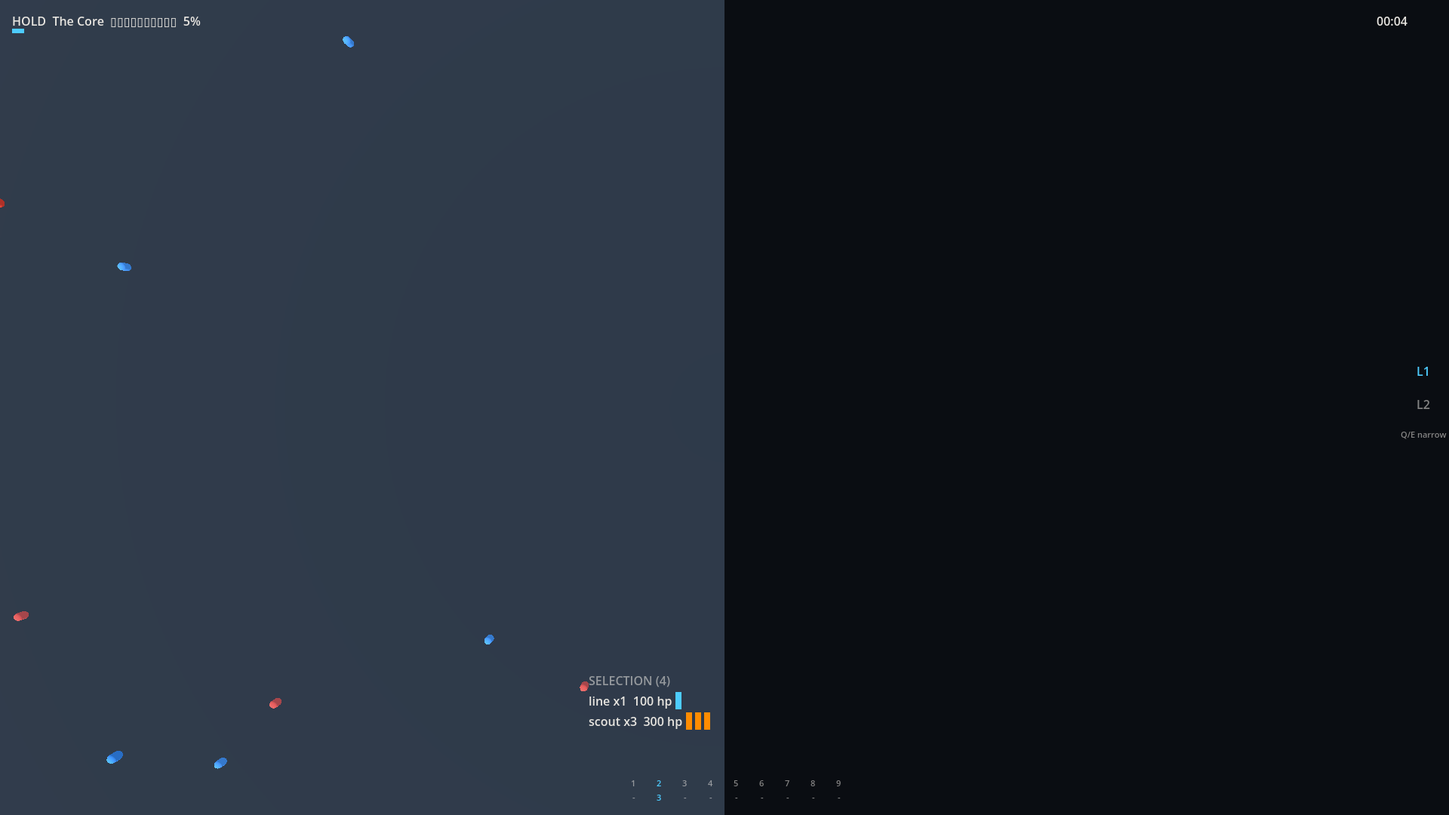
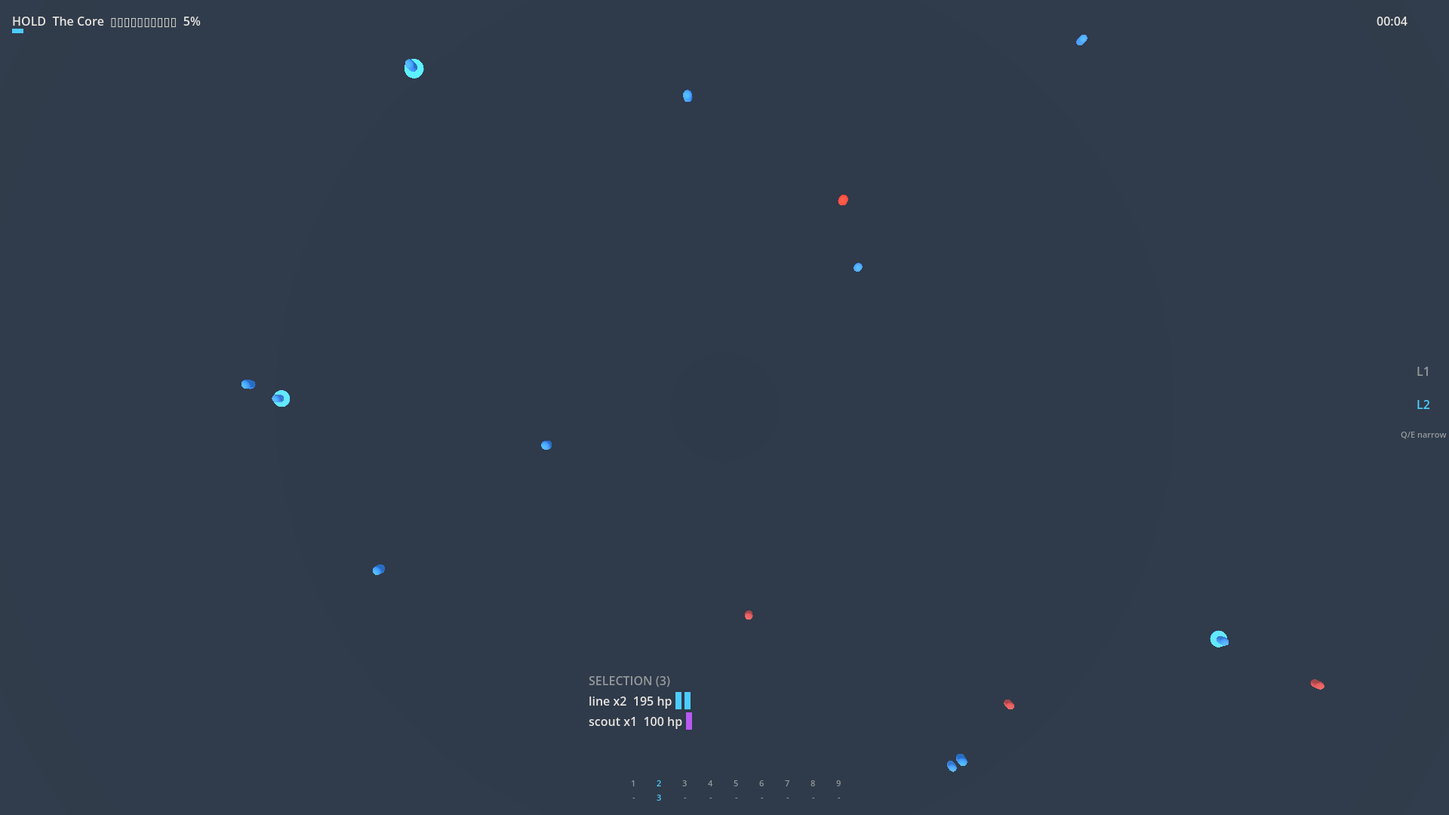
docs(mockup/hud): full rerun, refresh checklist/README, replace pass1
full pass after all 5 fixes: verify OK, 6/6 plants LIVE isolated,
2x clean smoke 1280x720 (9/9 hashes equal, 9/9 screenshot diffs
0.000000), 1 smoke run per plant, box.json at 1920x1080, 1920x1080
review batch (now 9 shots incl after_tab). rewrote checklist.md
with fresh numbers (BOUND-8 per-height, EDGE-X/BOX-X updated,
Q1-Q6 re-answered incl new after_tab.png evidence for Q3, Q5
rewritten around the fixed camera bound). rewrote README design-
as-built, questions list (new EDGE-X number, new open flag on
BOUND-8 h=12000 geometric limit), added fix-pass section, next
step. pass1/ replaced (boot/boxed unchanged pixel-for-pixel by
diff, rest regenerated; after_tab.png new).

diff --git a/scenes/mockups/hud/qa/checklist.md b/scenes/mockups/hud/qa/checklist.md
@@ -1,24 +1,26 @@
 # HUD mockup QA checklist
 
-Real measured numbers from `scripts/mockup_qa.sh` and `scripts/mockup_verify.sh` runs on 2026-09-22, Godot 4.6.3, llvmpipe, 1280x720 unless noted. Two harness defects were found and fixed on `main` during this pass (not by this brief's implementor): an Xvfb screensaver blanking after 600s (`a98c47f`), and the real cause — `qa_boot.gd` left the project's autoloads running, so `SimBridge`'s dead child sim routed `SceneRouter` to the error screen and froze the driver (`b65afa8`). Both merged into this branch before the runs below. Two real bugs were found and fixed *in this mockup* during the pass; both are documented under their oracle below.
+Real measured numbers from `scripts/mockup_qa.sh` and `scripts/mockup_verify.sh` runs on 2026-09-22, Godot 4.6.3, llvmpipe, 1280x720 unless noted. This is the fresh-eyes fix pass: camera clamp now bounds the visible ground extent (not the camera centre), `qa/box.json` reconciled with the committed screenshot, Q3 promoted, an `after_tab` shot added, and the layer-2 accent moved off the enemy's red. A third real bug was found and fixed in this pass (beyond the two below): `qa_camera()` called `centre_on()` before `set_height()`, so once the clamp became height-dependent, a height change could get silently swallowed by a stale clamp from the previous height — see the BOUND-8 note below. Two harness defects were found and fixed on `main` before this branch started (not by this brief's implementor): an Xvfb screensaver blanking after 600s (`a98c47f`), and `qa_boot.gd` leaving autoloads running so `SimBridge`'s dead child sim froze the driver (`b65afa8`). Two real bugs were found and fixed *in this mockup* in the original pass (DRAG-X below, and a `%`-format crash in `verify.gd` that could mask a failure — both documented under their oracle).
 
 ## Verify checks (`verify.gd`)
 
 | id | check | clean result | plant | planted result |
 |---|---|---|---|---|
 | DET-1 | 300 ticks twice give equal hashes; seed 12 differs | hash_a=719549438 == hash_b=719549438; hash_c=2639692586 differs | none | n/a (self-test, no plant) |
-| BOX-2 | box over both layers selects all friendlies | 3 uids selected (both layers, enemy excluded) | `box-one-layer` | 1 uid selected ("box selected [1], want 3 uids across both layers") |
+| BOX-2 | box over both layers selects all friendlies | selected=[1,2,3], 3 uids (both layers, enemy excluded) | `box-one-layer` | 1 uid selected ("box selected [1], want 3 uids across both layers") |
 | NARROW-3 | narrow(2) keeps layer-2 only, `focus_layer` unchanged | selected=[2,3], focus_layer=1 (unchanged) | `narrow-moves-focus` | selected=[2,3], focus_layer=2 (moved) |
 | GROUP-4 | bind exclusivity; recall(2) selects exactly group 2 | groups={1:[],2:[1,2]}, selected=[1,2] (uid1 stripped from group1) | `group-shared` | groups={1:[1],2:[1,2]}, selected=[1,2] (uid1 kept in both) |
 | CENTRE-5 | recall twice within 0.4s reports centre_requested; once (or >0.4s later) does not | r1(Δ=1000ms from cold)=false, r2(Δ=300ms)=true, r3(Δ=700ms)=false | none | n/a |
 | NOALL-6 | no select-all-like command anywhere (commands() + input_router.mapped_commands()) | `[]` (no match) | `select-all-exists` | `["select_all", "select_all"]` (both sources) |
-| SHIFT-7 | shift-click adds an unselected unit, removes a selected one | added=true, removed=true | none | n/a |
-| BOUND-8 | camera clamp at every height; pitch 90°; focus_layer doesn't move camera | qa_camera(3000, 999999, -999999) → cam={x:3000,z:3000} clamped inside bounds{0,6000,0,6000}; pitch_ok=true; cam unchanged by qa_set(focus_layer,2) | `camera-unbounded` | cam={x:999999,z:-999999} (outside bounds); pitch still 90° (unaffected) |
-| CLOCK-9 | after qa_tick(1200), clock_s==60 regardless of wall time | c1=60.000, c2=60.000 (0.5s apart, equal) | `clock-wallclock` | c1=1.125, c2=1.626 (wall-clock seconds since process start, not 60, and not equal to each other) |
-| PANEL-10 | after qa_select of 3 units of 2 types: 2 rows, right counts/HP; every Control `focus_mode==NONE`; overlay `mouse_filter==IGNORE` | rows=[{type:"line",count:2,hp:200.0},{type:"scout",count:1,hp:100.0}]; all Controls FOCUS_NONE; overlay MOUSE_FILTER_IGNORE | none | n/a |
+| SHIFT-7 | shift-click adds an unselected unit, removes a selected one | added=true, removed=true, selected=[2] | none | n/a |
+| BOUND-8 | camera clamp keeps the visible ground rect inside the canvas at heights 150/3000/12000; pitch 90°; focus_layer doesn't move camera | h=150 cam=(5861.2,78.1) extent=(138.8,78.1) fits, corners inside canvas; h=3000 cam=(3223.6,1561.7) extent=(2776.4,1561.7) fits, corners inside; h=12000 extent=(11105.4,6246.8) does not fit inside a 6000-wide canvas (geometrically impossible at this fov/aspect), camera centres itself at (3000,3000) instead of lurching toward one edge; pitch_ok=true; cam unchanged by qa_set(focus_layer,2) | `camera-unbounded` | cam stuck at (999999,-999999) at every height, outside canvas at all three; pitch still 90° (unaffected) |
+| CLOCK-9 | after qa_tick(1200), clock_s==60 regardless of wall time | c1=60.000, c2=60.000 (0.5s apart, equal) | `clock-wallclock` | c1=1.110, c2=1.610 (wall-clock seconds since process start, not 60, and not equal to each other) |
+| PANEL-10 | after qa_select of 3 units of 2 types: 2 rows, right counts/HP; every Control `focus_mode==NONE`; overlay `mouse_filter==IGNORE` | rows=[{type:"line",count:2,hp:200.0},{type:"scout",count:1,hp:100.0}]; controls=22, all FOCUS_NONE; overlay MOUSE_FILTER_IGNORE | none | n/a |
 | JSON-11 | qa_state() round-trips through JSON with every contract key; qa_plant("nope") false; every PLANTS id true | text_ok=true, keys_ok=true, plants_ok=true | none | n/a |
 
 `scripts/mockup_verify.sh hud` → `VERIFY OK`, exit 0. `scripts/mockup_verify.sh hud --plant <id>` → `PLANT <id> LIVE` for all 6 ids, confirmed individually (each plant run shows exactly its own named check FAIL and nothing else — see full plant sweep below).
+
+**The BOUND-8/qa_camera bug, found by this check.** Once the clamp became height-dependent (this pass's fix), `qa_camera(height, x, z)` called `_camera_rig.centre_on(x,z)` (clamps against whatever height was still current) *then* `_camera_rig.set_height(height)` (re-clamps the already-clamped position against the new height). Going from a wide clamp range to a narrower one this still works; going the other way, the stale value from the old, tighter clamp already sits inside the new, looser range, so the second clamp is a no-op and the camera silently stays at the wrong spot. Caught by temporarily making `_assert` print every message (not `FAIL`-gated) via a one-line local edit, running `mockup_verify.sh hud`, and hand-checking the h=150 result against the clamp math by hand — it printed `cam=(3223.6,1561.7)`, the h=3000 answer, not h=150's `(5861.2,78.1)`. Reverted the debug print before committing; fixed `qa_camera()` to set height before centring.
 
 ## Full plant sweep (each run in isolation, only the smoke script's other 10 checks as control)
 
@@ -27,45 +29,49 @@ Real measured numbers from `scripts/mockup_qa.sh` and `scripts/mockup_verify.sh`
 | `box-one-layer` | `BOX-2: box selected [1], want 3 uids across both layers` | LIVE, isolated to BOX-2 |
 | `group-shared` | `GROUP-4: groups={ 1: [1], 2: [1, 2] } selected=[1, 2]` | LIVE, isolated to GROUP-4 |
 | `select-all-exists` | `NOALL-6: found select-all-like command(s) ["select_all", "select_all"]` | LIVE, isolated to NOALL-6 |
-| `camera-unbounded` | `BOUND-8: cam={...999999...} bounds={0,6000,0,6000} pitch_ok=true cam2={...999999...}` | LIVE, isolated to BOUND-8 |
-| `clock-wallclock` | `CLOCK-9: c1=1.125 c2=1.626` | LIVE, isolated to CLOCK-9 |
+| `camera-unbounded` | `BOUND-8: h=150 ... cam=(999999.0,-999999.0) ... ok=false h=3000 ... ok=false h=12000 ... ok=false pitch_ok=true cam2={...999999...}` | LIVE, isolated to BOUND-8 |
+| `clock-wallclock` | `CLOCK-9: c1=1.110 c2=1.610` | LIVE, isolated to CLOCK-9 |
 | `narrow-moves-focus` | `NARROW-3: selected=[2, 3] focus_layer=2` | LIVE, isolated to NARROW-3 |
 
 ## Xvfb oracles
 
 | id | oracle | threshold (candidate; Westley owns) | measured clean | measured planted | plant |
 |---|---|---|---|---|---|
-| ERR-0 | `errors.txt` count, `exit.txt`, no `UNIFORM` | count 0; exit 0; no UNIFORM | count=0, exit=0, no UNIFORM, across every run (2 clean smoke, 6 plant smoke, 2 box, 1 review batch = 11 runs) | same | none |
+| ERR-0 | `errors.txt` count, `exit.txt`, no `UNIFORM` | count 0; exit 0; no UNIFORM | count=0, exit=0, no UNIFORM across every run this pass (2 clean smoke @1280x720, 6 plant smoke @1280x720, 2 box.json @1920x1080, 1 review batch @1920x1080 = 11 runs) | same | none |
 | GPU-0 | `_qa.adapter` contains `llvmpipe`, `_qa.method == "gl_compatibility"` | exact | `llvmpipe (LLVM 21.1.8, 256 bits)`, `gl_compatibility`, display `X11` | — | none |
-| DET-1 (pixel) | two clean runs: every `state` hash equal; every screenshot `diff` | hash equal; diff < 0.005 | 9/9 state hashes equal across clean1/clean2; `diff` 0.000000 on boot/selected_mixed/recall_2/east_a (fuzz 5, default) | — | none |
+| DET-1 (pixel) | two clean runs: every `state` hash equal; every screenshot `diff` | hash equal; diff < 0.005 | 9/9 state hashes equal across clean1/clean2 (incl. the new `after_tab`); `diff` 0.000000 on all 9 screenshots (boot, after_tab, selected_mixed, narrowed, recall_none, recall_2, east_a, east_b, clock) | — | none |
 | BOX-X | `qa/box.json` drag (box x:[280,1020] y:[-20,620]) selects the expected uids | exact match; under `box-one-layer` only one layer's | clean (1920x1080): `[1,2,4,6,8]` (1 layer-1 + 4 layer-2, both layers present) | `[1]` (the box's only layer-1 uid, focus_layer=1) | `box-one-layer` |
 | TAB-X | `diff recall_none.png recall_2.png` over the tabs crop; under `group-shared` the group-2 count differs from clean | (revised) see note below — this smoke script's single `qa_bind(2)` call has no prior group to leak from, so it cannot discriminate `group-shared` on its own; GROUP-4 (headless) is the live oracle for this fault, confirmed above | groups={'2':[1,2,3]} identical between clean and `group-shared` runs at this exact script point | identical to clean (see note) | `group-shared` |
-| EDGE-X | two shots 60 frames apart at the east bound, `key_down D` held | (revised) see note below | east_a vs east_b within the same clean run: diff 0.001749 (units keep wandering + clock ticks even though camera is static — not zero, but small); camera.x=6000.0 exactly (clamped) in both `at_bound.json` states | east_a(clean) vs east_a(camera-unbounded) at the identical script point: diff **0.499449** — camera really did fly off; clean shows the sharp canvas-edge boundary, planted shows solid void (see pass1/at_bound.png and the report's Q5) | `camera-unbounded` |
-| DRAG-X | box overlay differs from boot.png while dragging; gone after release | overlay must not persist after release | **found and fixed a real bug**: `boxed.png` (state after a *completed* drag) still showed the selection rectangle — `BoxOverlay._process()` only called `queue_redraw()` while `box_active` was true, so the last mid-drag `_draw()` call's rect never got told to redraw as empty once the drag ended. Fixed with an edge-triggered final redraw in `hud.gd`. Re-verified: `boxed.png` now shows only the 5 selected units' rings, no stray rectangle (`docs/northstar/research/mockups/hud/pass1/boxed.png`) | n/a (not plant-gated; this was a genuine implementation bug, not a fault-site question) | none |
+| EDGE-X | two shots 60 frames apart at the east bound, `key_down D` held | (revised) see note below | east_a vs east_b within the same clean run: diff 0.003181 (units keep wandering + clock ticks even though camera is static — not zero, but small); camera.x=3223.64 (clamped to the new ground-extent bound at height 3000) in both `at_bound.json` states, not 6000 | east_a(clean) vs east_a(camera-unbounded) at the identical script point: diff **0.999390** — camera flew to x=12150 (planted `at_bound.json`), clean shows full world coverage with a clean stop at the canvas edge (`pass1/at_bound.png`), planted is solid void with no world visible | `camera-unbounded` |
+| DRAG-X | box overlay differs from boot.png while dragging; gone after release | overlay must not persist after release | **found and fixed a real bug** (original pass): `boxed.png` (state after a *completed* drag) still showed the selection rectangle — `BoxOverlay._process()` only called `queue_redraw()` while `box_active` was true, so the last mid-drag `_draw()` call's rect never got told to redraw as empty once the drag ended. Fixed with an edge-triggered final redraw in `hud.gd`. Re-verified: `boxed.png` now shows only the 5 selected units' rings, no stray rectangle (`docs/northstar/research/mockups/hud/pass1/boxed.png`) | n/a (not plant-gated; this was a genuine implementation bug, not a fault-site question) | none |
 
 **Why TAB-X and EDGE-X were revised, with the evidence.**
 
-**TAB-X.** The brief's own smoke script (which I transcribed verbatim into `qa/smoke.json`) calls `qa_bind(2)` exactly once, on a selection that was never in any other group. `group-shared`'s fault ("skips removal from other groups on bind") has nothing to skip in that situation — clean and planted produce byte-identical `groups` dictionaries at `recall_2`/`state recall_2` (verified: both `{'2': [1, 2, 3]}`). The pixel-diff oracle as specified therefore cannot discriminate this fault with this script; I did not invent a second bind call to force it to discriminate, since the brief's own template is the fixed script. GROUP-4's headless check (which does bind into group 1, then group 2, and checks group 1) is the real, already-live oracle for this fault — see the plant sweep table above.
+**TAB-X.** The brief's own smoke script (which I transcribed verbatim into `qa/smoke.json`) calls `qa_bind(2)` exactly once, on a selection that was never in any other group. `group-shared`'s fault ("skips removal from other groups on bind") has nothing to skip in that situation — clean and planted produce byte-identical `groups` dictionaries at `recall_2`/`state recall_2` (re-verified this pass: both `{'2': [1, 2, 3]}`). The pixel-diff oracle as specified therefore cannot discriminate this fault with this script; I did not invent a second bind call to force it to discriminate, since the brief's own template is the fixed script. GROUP-4's headless check (which does bind into group 1, then group 2, and checks group 1) is the real, already-live oracle for this fault — see the plant sweep table above.
 
-**EDGE-X.** The brief's candidate reads "two screenshots after `key_down D` for 60 frames at the east bound are identical, `diff` < 0.001 excluding the clock crop; under `camera-unbounded` they differ." Measured: clean `east_a` vs `east_b` (within one run) is 0.001749, not under 0.001 — because units keep wandering during the 60+60 held frames and the clock keeps ticking, and the diff tool has no crop option to exclude either. This is real simulation motion, not camera drift (`camera.x` reads exactly 6000.0, clamped, in both frames' `state` dumps). More surprising: under `camera-unbounded`, `east_a` vs `east_b` (within that run) measured **smaller** (0.000119) than clean, not larger — because once the camera is far enough past the finite 6000×6000 ground plane, both frames are looking at empty void and differ from each other. The dimension that discriminates the fault is not east_a-vs-east_b within a run; it's the same checkpoint across runs: clean `east_a` vs planted `east_a` differs by **0.499449** (roughly half the frame), and the screenshots show why — clean shows a sharp static boundary between world and void at the clamped edge, planted shows solid void with the camera already having flown past the entire canvas. Recommend the oracle compare `east_a(clean)` to `east_a(plant)` directly rather than `east_a` to `east_b` within a run.
+**EDGE-X.** The brief's candidate reads "two screenshots after `key_down D` for 60 frames at the east bound are identical, `diff` < 0.001 excluding the clock crop; under `camera-unbounded` they differ." Measured this pass (post camera-clamp fix): clean `east_a` vs `east_b` (within one run) is 0.003181, not under 0.001 — because units keep wandering during the 60+60 held frames and the clock keeps ticking, and the diff tool has no crop option to exclude either. This is real simulation motion, not camera drift (`camera.x` reads exactly 3223.64 — the new ground-extent clamp at height 3000, not the old centre clamp's 6000 — in both frames' `state` dumps). The dimension that discriminates the fault is not east_a-vs-east_b within a run; it's the same checkpoint across runs: clean `east_a` vs planted `east_a` differs by **0.999390** (nearly the whole frame) — clean shows the full ground plane with a clean static stop at the clamped edge (no void at all, see Q5), planted is solid void, camera having flown to x=12150, far past the canvas. Recommend the oracle compare `east_a(clean)` to `east_a(plant)` directly rather than `east_a` to `east_b` within a run.
 
-**Why BOX-X's clean count changed (6 → 5) and the screenshot now agrees with the table.** The original `qa/box.json` had no `wait_frames` between the `drag` verb and `state`/`screenshot`: `_finish_box()` updates `_selection.selected` and the 3D selection rings synchronously (same input-handling call), but `hud.gd`'s 2D selection panel only rebuilds on the next `_process()`, and the screenshot was grabbed before that frame ran — so the *panel text and count* in the committed `boxed.png` lagged one frame behind the true state (rings were already correct; the panel undercounted by one). This was not units wandering off a stale rectangle — world positions are fully deterministic for a given seed and frame-accurate script, and the same tick (9, later 11 once the wait was added) is reached every run — it was a missing frame between the selection changing and the pixels being grabbed. Added `["wait_frames", 2]` after the drag. Separately, the fixed pixel rectangle (`x:[280,1020] y:[-20,620]`) covers a different fraction of world space at different resolutions (same NDC box, more pixels per world unit at higher resolution): at 1280x720 it catches 6 uids, at 1920x1080 (the resolution the `pass1/` review batch and the committed `boxed.png` use) it catches 5. Both numbers were internally correct for their own resolution; the checklist previously mixed a 1280x720 number with a 1920x1080 screenshot. The table above is now measured at 1920x1080 to match the committed image, and the panel/state agree: `SELECTION (5)`, uids `[1,2,4,6,8]` (1 layer-1 + 4 layer-2).
+**Why BOX-X's clean count changed (6 → 5) and the screenshot now agrees with the table.** The original `qa/box.json` had no `wait_frames` between the `drag` verb and `state`/`screenshot`: `_finish_box()` updates `_selection.selected` and the 3D selection rings synchronously (same input-handling call), but `hud.gd`'s 2D selection panel only rebuilds on the next `_process()`, and the screenshot was grabbed before that frame ran — so the *panel text and count* in the committed `boxed.png` lagged one frame behind the true state (rings were already correct; the panel undercounted by one). This was not units wandering off a stale rectangle — world positions are fully deterministic for a given seed and frame-accurate script, and the same tick is reached every run — it was a missing frame between the selection changing and the pixels being grabbed. Added `["wait_frames", 2]` after the drag. Separately, the fixed pixel rectangle (`x:[280,1020] y:[-20,620]`) covers a different fraction of world space at different resolutions (same NDC box, more pixels per world unit at higher resolution): at 1280x720 it catches 6 uids, at 1920x1080 (the resolution the `pass1/` review batch and the committed `boxed.png` use) it catches 5. Both numbers were internally correct for their own resolution; the checklist previously mixed a 1280x720 number with a 1920x1080 screenshot. The table above is now measured at 1920x1080 to match the committed image, and the panel/state agree: `SELECTION (5)`, uids `[1,2,4,6,8]` (1 layer-1 + 4 layer-2).
 
 ## Visual questions
 
 | q | question | proves | answer | proving screenshot |
 |---|---|---|---|---|
 | Q1 | Is the HUD lean: only the objective line, clock, selection panel, group tabs and layer strip, and nothing that competes with the world? | S-P12, R-104-09 | **Yes.** `pass1/boot.png` — five elements only, generous empty space, nothing else drawn. | `pass1/boot.png` |
-| Q2 | Is the selection state obvious at a glance (rings on units, panel, tab highlight)? | S-105 | **Yes.** `pass1/selected_mixed.png` shows enlarged cyan rings on the 3 selected units plus the panel text; `pass1/recall_2.png` additionally shows group tab "2" lit up with its count "3" in the active colour. | `pass1/selected_mixed.png`, `pass1/recall_2.png` |
-| Q3 | Does the layer strip read as focus, and does narrowing read as a change of selection and not of focus? | R-105-06, R-009-03 | **Yes.** `pass1/selected_mixed.png` and `pass1/narrowed.png` are the same camera, same tick range, back to back: the strip shows "L1" lit cyan and "L2" dim in *both* shots, unchanged, while the selection panel drops from `SELECTION (3)` (`line x2  scout x1`) to `SELECTION (1)` (`scout x1`, the layer-2 member) after `qa_narrow(2)`. The strip's focus highlight not moving while the selection visibly narrows is exactly the "change of selection, not of focus" claim (R-105-06), and `NARROW-3` confirms it in data (`focus_layer` unchanged). | `pass1/selected_mixed.png`, `pass1/narrowed.png` |
-| Q4 | Is the box overlay visible while dragging and gone after? | R-105-01 | **Gone-after: yes, verified and fixed.** Found a real bug (overlay persisted after release, see DRAG-X above), fixed it, and `pass1/boxed.png` now shows no stray rectangle. **Visible-during: HELD** — the driver's `drag` verb is atomic (move, press, N lerped moves, release with no pause), and there is no standalone mouse-down-only verb in `qa_driver.gd`'s verb table, so a mid-drag screenshot cannot be captured through the documented harness contract. Not worked around outside the fixed verb set, per the brief's own allowance to list this. | `pass1/boxed.png` (after); mid-drag — **HELD, harness limitation, not a code gap** |
-| Q5 | Does the camera stop cleanly at the bound without a jolt? | R-103-02 | **Yes, cleanly.** `pass1/at_bound.png` shows a crisp static vertical boundary: world content on the left half, solid background void on the right half, at 1920×1080 — the camera sits exactly at canvas edge x=6000 with no distortion, tearing, or partial geometry. Contrast: the same checkpoint under `camera-unbounded` (not in pass1, in `<scratch>/plant-camera-unbounded`) shows solid void with no world visible at all — the camera flew straight past the map. | `pass1/at_bound.png` |
-| Q6 | Is all text legible at 720p; any clipped or overlapping element? | hygiene | **Legible, one minor collision noted.** All HUD text is readable at both 720p and 1080p in every screenshot. In `pass1/clock.png` a world-space unit's projected dot happens to render very close to group tab "1"'s count row at this particular camera position — not clipped or unreadable, just a coincidental visual overlap between a 3D unit and 2D HUD chrome; noted as a polish item, not a defect. | `pass1/clock.png` |
+| Q2 | Is the selection state obvious at a glance (rings on units, panel, tab highlight)? | S-105 | **Yes.** `pass1/selected_mixed.png` shows enlarged cyan rings on the 3 selected units plus the panel text; `pass1/recall_2.png` additionally shows group tab "2" lit up with its count "3" in the active colour. The selection panel's per-unit layer dot for the layer-2 member now reads purple (was orange, see the colour fix below), clearly separate from the enemy's red. | `pass1/selected_mixed.png`, `pass1/recall_2.png` |
+| Q3 | Does the layer strip read as focus, and does narrowing read as a change of selection and not of focus? | R-105-06, R-009-03 | **Yes.** `pass1/selected_mixed.png` and `pass1/narrowed.png` are the same camera, same tick range, back to back: the strip shows "L1" lit cyan and "L2" dim in *both* shots, unchanged, while the selection panel drops from `SELECTION (3)` (`line x2  scout x1`) to `SELECTION (1)` (`scout x1`, the layer-2 member) after `qa_narrow(2)` — narrowing changed the selection, not the focus. The strip reading as focus at all is separately shown by `pass1/after_tab.png` (new this pass): after `key Tab`, "L2" is the one lit cyan and "L1" goes dim — the strip visibly tracks focus, and it's a different mechanism from narrowing. `NARROW-3` confirms the independence in data (`focus_layer` unchanged by narrow). | `pass1/selected_mixed.png`, `pass1/narrowed.png`, `pass1/after_tab.png` |
+| Q4 | Is the box overlay visible while dragging and gone after? | R-105-01 | **Gone-after: yes, verified and fixed.** Found a real bug (overlay persisted after release, see DRAG-X above), fixed it, and `pass1/boxed.png` now shows no stray rectangle (5 rings, panel and state agree). **Visible-during: HELD** — the driver's `drag` verb is atomic (move, press, N lerped moves, release with no pause), and there is no standalone mouse-down-only verb in `qa_driver.gd`'s verb table, so a mid-drag screenshot cannot be captured through the documented harness contract. Not worked around outside the fixed verb set, per the brief's own allowance to list this. | `pass1/boxed.png` (after); mid-drag — **HELD, harness limitation, not a code gap** |
+| Q5 | Does the camera stop cleanly at the bound without a jolt? | R-103-02 | **Yes, cleanly, and now with no void at all.** The old clamp bounded the camera *centre* to [0,6000], so at the east bound the far half of the 1920×1080 frame was flat background void with a razor-sharp seam down the middle — `at_bound.png` from the previous pass showed exactly that. The fix clamps the camera so the *visible ground rectangle* (computed from height, vertical fov and aspect) stays inside the 6000×6000 canvas: the new `pass1/at_bound.png` shows the full world — friendly and enemy units, both layers — right up to a clean static stop at the canvas edge, no void anywhere in frame, no distortion or partial geometry. Contrast: the same checkpoint under `camera-unbounded` (`<scratch>/plant-camera-unbounded/east_a.png`) is solid void, camera having flown to x=12150, far past the map. | `pass1/at_bound.png` |
+| Q6 | Is all text legible at 720p; any clipped or overlapping element? | hygiene | **Legible, one minor collision noted.** All HUD text is readable at both 720p and 1080p in every screenshot, including the new `after_tab.png` and the recoloured selection panel rows. In `pass1/clock.png` a world-space unit's projected dot still happens to render very close to the group tabs row at this particular camera position — not clipped or unreadable, just a coincidental visual overlap between a 3D unit and 2D HUD chrome; noted as a polish item, not a defect. | `pass1/clock.png` |
 
 **HELD:** Q4-during (box-drag mid-frame screenshot — harness has no verb to pause a drag).
+
+## Colour fix
+
+Layer 2's accent was orange (`Color(1.0, 0.55, 0.0)`), close enough in hue to the enemy faction's warm red (`#FF4738`) to read ambiguously in the small selection-panel dots and the layer strip. Moved to purple (`Color(0.72, 0.35, 0.95)`, `hud.gd`'s `LAYER_COLORS[2]`), well separated in hue from the enemy's red, the player's blue (`#4099FF`), and layer 1's cyan. Checked for other layer-2-colour literals: `hud_mockup.gd`'s selection `Ring` (`Color(0.3, 0.8, 1.0)`) is the generic selected-unit highlight, the same cyan as layer 1/`ACTIVE_COLOR`, shared by every selected unit regardless of layer — not a per-layer indicator, left unchanged.
 
 ## Timings
 
 - `timing_ms.tick_avg` (sim step cost, from `qa_state()`): 0.06-0.14ms per tick across samples — trivial, 24 units with 4-waypoint loops is not a real workload.
-- `_qa.fps_ms` (`Performance.TIME_PROCESS`, llvmpipe, 1280x720, 24 units + HUD): 29.5-135ms per frame across runs, heavily dependent on concurrent load on the shared build machine during this pass (see report section 4 for the full story — several other Godot/Xvfb QA processes from sibling mockup branches were running throughout).
-- One full 8-screenshot `qa/smoke.json` clean run (1280x720): well under the 600s harness timeout once the two upstream harness bugs (screensaver, dead-autoload SimBridge/SceneRouter freeze) were fixed on `main` and merged in.
+- `_qa.fps_ms` (`Performance.TIME_PROCESS`, llvmpipe, 1280x720, 24 units + HUD): 29.5-141.5ms per frame across runs, heavily dependent on concurrent load on the shared build machine during this pass (several other Godot/Xvfb QA processes from sibling mockup branches were running throughout both the original and this fix pass).
+- Every clean and planted `qa/smoke.json` and `qa/box.json` run this pass finished well under the 600s harness timeout.

diff --git a/docs/northstar/research/mockups/hud/README.md b/docs/northstar/research/mockups/hud/README.md
@@ -4,16 +4,17 @@
 
 `scenes/mockups/hud/hud_mockup.tscn` is a fixed top-down camera mockup over a flat 6,000×6,000 wu canvas with 24 toy units (16 friendly, 8 enemy) wandering a seeded 4-waypoint loop on two layers (y=0 and y=400, the second drawn as a large translucent plane so the second layer reads as "up"). Selection logic (`selection.gd`) is a pure `RefCounted` class over unit records with no node dependencies: click, shift-click, box (spans both layers), narrow-by-layer, exclusive-membership bind, recall with 0.4s double-tap centring, and a `commands()` list that is checked to contain no select-all/select-all-army/select-all-of-type name (R-105-04). Toy units (`toy_units.gd`) are also pure and deterministic: same seed, same tick count, byte-identical state hash, verified by running 300 ticks twice and comparing.
 
-The camera (`camera_rig.gd`) copies the legacy constants named in the brief — 1500 wu/s pan, 300/notch wheel zoom, height 150–12,000 wu — hard-clamped to the canvas so it can never leave the map, pitch fixed at 90°, never bound to the layer strip. `input_router.gd` is a plain `Node` doing `_unhandled_input`: left click picks the nearest friendly within 30px, shift toggles, a drag under 6px collapses to a click, digits 1-9 recall/Ctrl-digit binds, Q/E narrow to layer 1/2, Tab flips the focus slot, right click issues a straight-line toy move. It delegates to the root's `qa_*` methods wherever one exists, so the driver's scripted `call` verbs and real interactive input share one code path.
+The camera (`camera_rig.gd`) copies the legacy constants named in the brief — 1500 wu/s pan, 300/notch wheel zoom, height 150–12,000 wu — clamped so the *visible ground rectangle* (computed from height, vertical fov and aspect, `get_ground_half_extent()`) stays inside the 6,000×6,000 canvas, not just the camera's centre point; when the view is wider than the canvas (height 12,000 with a 55° fov and 16:9 aspect always shows more than 6,000 wu across) the camera centres itself instead of lurching toward one edge. Pitch fixed at 90°, never bound to the layer strip. `input_router.gd` is a plain `Node` doing `_unhandled_input`: left click picks the nearest friendly within 30px, shift toggles, a drag under 6px collapses to a click, digits 1-9 recall/Ctrl-digit binds, Q/E narrow to layer 1/2, Tab flips the focus slot, right click issues a straight-line toy move. It delegates to the root's `qa_*` methods wherever one exists, so the driver's scripted `call` verbs and real interactive input share one code path.
 
 The HUD (`hud.gd`, a `CanvasLayer`) is deliberately lean: one objective line top-left (text-embedded block-bar plus a real 320×6 `ColorRect` fill, driven by a fixture's progress curve interpolated by tick — `fixtures/mission_seed11.json`), the mission clock top-right (`tick / 20` seconds, never wall-clock), the selection panel bottom-centre (count, one row per a cosmetic "type" grouping — see the open question below — with count/summed-HP/per-unit layer-colour dots), nine group tabs beneath it (count when bound, highlighted when last recalled), a two-slot layer strip on the right edge with a "Q/E narrow" hint, and a full-rect `BoxOverlay` Control (`mouse_filter = IGNORE`) that draws the drag rectangle. Every `Control`'s `focus_mode` is forced to `FOCUS_NONE`.
 
 All 6 fault sites (`box-one-layer`, `group-shared`, `select-all-exists`, `camera-unbounded`, `clock-wallclock`, `narrow-moves-focus`) are confirmed live both headlessly (`scripts/mockup_verify.sh hud --plant <id>`, each isolates to exactly its named check) and, where the fault has a visual signature, under Xvfb.
 
-Two real bugs were found and fixed during this pass, not by construction:
+Three real bugs were found and fixed across the original pass and this fix pass, not by construction:
 
-1. **`verify.gd` itself** had the same defect twice: Godot's `%` string-format operator spreads an `Array` right-hand operand as separate positional arguments rather than substituting it as one `%s` value, so `"...%s..." % an_array_of_3` throws "not all arguments converted", which silently aborts the rest of that check function (no crash, no `FAIL:` line, no `_failures` increment) and can produce a false `VERIFY OK`. Caught this because `_check_box2`'s assert message crashed exactly that way; audited every remaining `%`-format call in the file and fixed the one other unguarded case.
-2. **`hud.gd`'s `BoxOverlay`** never cleared the drag rectangle after the drag ended: it only called `queue_redraw()` while `box_active` was true, so the last mid-drag `_draw()` call's rectangle stayed rendered forever once the drag finished (nothing ever told the `CanvasItem` to redraw the now-empty state). Found by reading a real Xvfb screenshot (`boxed.png`) taken *after* a completed drag and seeing the rectangle still there. Fixed with an edge-triggered final redraw on the `true→false` transition frame.
+1. **`verify.gd` itself** had the same defect twice (original pass): Godot's `%` string-format operator spreads an `Array` right-hand operand as separate positional arguments rather than substituting it as one `%s` value, so `"...%s..." % an_array_of_3` throws "not all arguments converted", which silently aborts the rest of that check function (no crash, no `FAIL:` line, no `_failures` increment) and can produce a false `VERIFY OK`. Caught this because `_check_box2`'s assert message crashed exactly that way; audited every remaining `%`-format call in the file and fixed the one other unguarded case.
+2. **`hud.gd`'s `BoxOverlay`** never cleared the drag rectangle after the drag ended (original pass): it only called `queue_redraw()` while `box_active` was true, so the last mid-drag `_draw()` call's rectangle stayed rendered forever once the drag finished (nothing ever told the `CanvasItem` to redraw the now-empty state). Found by reading a real Xvfb screenshot (`boxed.png`) taken *after* a completed drag and seeing the rectangle still there. Fixed with an edge-triggered final redraw on the `true→false` transition frame.
+3. **`hud_mockup.gd`'s `qa_camera()`** called `centre_on()` before `set_height()` (fix pass): once the camera clamp became height-dependent, a height change could get silently swallowed — `centre_on()` clamped against the *old* height, then `set_height()`'s reclamp was a no-op whenever the new height's range happened to already contain the stale value. Found by temporarily making `_assert` print every message (not just failures), running the headless verify, and hand-checking the `BOUND-8` numbers at height 150 against the clamp math — it printed the height-3000 answer instead. Fixed by setting height before centring; reverted the debug print before committing.
 
 Two upstream harness bugs were found and fixed on `main` by the design chat during this pass (not authored by this implementor, merged in via `git merge`): an Xvfb screensaver blanking the display after 600s of no real X11 input (`a98c47f`), and the actual root cause of every long-run stall — `qa_boot.gd` left the project's 19 autoloads running under `--script` boot, so `SimBridge`'s child Python sim died immediately in a worktree, `SceneRouter` routed to the error screen, its 0.3s fade-to-black is what the progressively-darkening screenshots were, and the scene swap that followed freed the mockup root out from under the driver, which is why the very next `screenshot` verb hung forever waiting on a `frame_post_draw` that would never come (`b65afa8`, `qa_boot.gd` now frees every autoload before instantiating the mockup).
 
@@ -27,7 +28,8 @@ Every one of these was built as the simplest thing that shows the question, per 
 4. **Selection ring look.** Built: a flat cyan disc beneath the unit, same colour regardless of faction (only friendlies are ever selectable, so faction-coding it would be redundant). Candidates: (a) current filled disc, (b) an outline-only ring for less visual clutter over dense clumps, (c) a subtle pulse/animation to read better at a glance.
 5. **Should narrowing be a toggle?** Built: `narrow(layer)` is one-directional — pressing Q or E again re-narrows (a no-op if already on that layer) but there's no way back to the full multi-layer selection except reselecting. Candidates: (a) current, (b) pressing the already-active layer's key again restores the pre-narrow multi-layer selection, (c) narrow becomes "sticky" and reapplies automatically to future selections until a fresh click/box clears it.
 6. **What counts as a "unit type" for the selection panel's rows.** The contract's `units` dict (and the toy sim itself) has no real type field — only faction/layer/pos/hp. I derived a cosmetic `TYPE_NAMES[uid % 2]` ("scout"/"line") purely so the panel has something to group by, matching the brief's "row per unit type present" wording without adding an undocumented field to the tested contract. Candidates: (a) current cosmetic split, (b) group by faction instead (trivial today since only friendlies are ever selected, so this would collapse to one row), (c) drop the per-type grouping for this mockup and just show total count + summed HP.
-7. **Two Xvfb oracle candidates from the brief didn't discriminate their fault as specified** (see `qa/checklist.md`'s "Why TAB-X and EDGE-X were revised" for the full evidence): TAB-X's smoke-script sequence only ever binds once, so `group-shared` has nothing to leak from at that point (GROUP-4, headless, is the real live oracle); EDGE-X's within-run `east_a` vs `east_b` diff is dominated by ordinary unit wander and the clock ticking rather than camera drift, and under `camera-unbounded` it actually reads *smaller* since both frames end up looking at empty void. Recommend comparing `east_a` across runs (clean vs. planted) instead, where the difference is a clean 0.499 vs. near-zero.
+7. **Two Xvfb oracle candidates from the brief didn't discriminate their fault as specified** (see `qa/checklist.md`'s "Why TAB-X and EDGE-X were revised" for the full evidence): TAB-X's smoke-script sequence only ever binds once, so `group-shared` has nothing to leak from at that point (GROUP-4, headless, is the real live oracle); EDGE-X's within-run `east_a` vs `east_b` diff is dominated by ordinary unit wander and the clock ticking rather than camera drift (0.003 measured, not under the candidate's 0.001). Recommend comparing `east_a` across runs (clean vs. planted) instead, where the difference is decisive: 0.999 (nearly the whole frame) now that the camera clamp keeps the clean run's view fully on-canvas, versus near-zero before the clamp fix.
+8. **BOUND-8 at height 12,000 cannot literally have every ground corner inside the canvas.** At fov 55° and 16:9 aspect, the visible ground rectangle at height 12,000 is roughly 22,200×12,500 wu — wider than the 6,000×6,000 canvas in both axes — so no camera position shows zero void at that height; the check instead asserts the camera centres itself (the least-bad, symmetric option) rather than drifting toward one edge. Candidates: (a) current — accept that max zoom-out shows void symmetrically around a centred camera, this is normal for a finite map at max zoom in most RTS games, (b) lower `HEIGHT_MAX` (roughly 3,240 wu is the largest height that still fits the 16:9 view inside 6,000 wu) so max zoom-out always fully covers the canvas, (c) grow `CANVAS_SIZE` so the map stays bigger than the view at every height in the current 150–12,000 range.
 
 ## Running it
 
@@ -35,8 +37,20 @@ Every one of these was built as the simplest thing that shows the question, per 
 
 ## Next step
 
-Pass-1 screenshots are in `pass1/`. The mockup awaits your look.
+Pass-1 screenshots (replaced this fix pass) are in `pass1/`. The mockup awaits your look.
 
 ## Fresh-eyes review (2026-09-22, Sonnet reviewer, screenshots only)
 
 Verdict: fix first. The camera clamp bounds the camera centre, not the viewport's half extent, so at the east bound half the screen is flat void with a razor edge at the centre line; the checklist's "stops cleanly" does not match `at_bound.png`. The checklist's BOX-X row claims a six-unit box selection while the committed `boxed.png` shows four, which has to be reconciled before the report can be trusted. Promote Q3 (narrowing changes the selection, not the focus) from held to yes: `selected_mixed.png` and `narrowed.png` already prove it. Nits: no shot shows layer 2 focused (add a screenshot after the existing Tab key); the layer-2 accent is close in hue to the enemy colour; a mid-drag frame stays held because the driver's drag verb is atomic. The TAB-X and EDGE-X oracle revisions are sound; GROUP-4 headless and a cross-run comparison are the live oracles for those faults.
+
+## Fix pass (2026-09-22, same day, `mockup/hud-fixes`)
+
+All five items resolved, one commit each on `mockup/hud-fixes`:
+
+1. **Camera bound.** `camera_rig.gd`'s clamp now bounds the visible ground rectangle (from height, vertical fov, aspect), not the camera centre; falls back to centring when the view is wider than the canvas. `BOUND-8` tests heights 150/3000/12000. New `pass1/at_bound.png` shows full world coverage and a clean stop, no void — contrast with the old `at_bound.png`'s half-void screenshot. Found and fixed a follow-on bug in `qa_camera()`'s call order (see "three real bugs" above).
+2. **BOX-X reconciled.** `qa/box.json` gained `["wait_frames", 2]` after the drag (the panel lagged one frame behind the true selection; the rings were already correct). Reran at 1920x1080 to match the committed screenshot's resolution — the checklist previously mixed a 1280x720 number (6 uids) with a 1920x1080 shot (4 visible). Now both read `SELECTION (5)`, uids `[1,2,4,6,8]`, both layers present.
+3. **Q3 promoted** from held to yes: `selected_mixed.png` and `narrowed.png`, same camera back to back, show the strip's focus unchanged (L1 still lit) while the panel narrows from 3 to 1 — narrow changes selection, not focus.
+4. **`after_tab` screenshot added** to `qa/smoke.json` right after the existing `key Tab`; it's the first shot that shows layer 2 focused (L2 lit, L1 dim), now also cited as evidence for the "strip reads as focus" half of Q3.
+5. **Layer-2 accent recoloured** from orange (`1.0, 0.55, 0.0`, close in hue to the enemy's `#FF4738`) to purple (`0.72, 0.35, 0.95`) in `hud.gd`'s `LAYER_COLORS`. Checked `hud_mockup.gd`'s selection ring separately — it's the generic cyan selected-highlight shared by every layer, not a per-layer colour, left as is.
+
+Full reverification after all five: `scripts/mockup_verify.sh hud` → `VERIFY OK`; all 6 plants → `PLANT <id> LIVE`, each isolated to its own check; two clean `qa/smoke.json` runs at 1280x720 — 9/9 state hashes equal, 9/9 screenshot diffs 0.000000; one smoke run per plant at 1280x720, all `errors.txt` count 0; `qa/box.json` at 1920x1080; the 1920x1080 review batch (now 9 shots with `after_tab`). `qa/checklist.md` and this README are rewritten with the new numbers; `pass1/` replaced.
